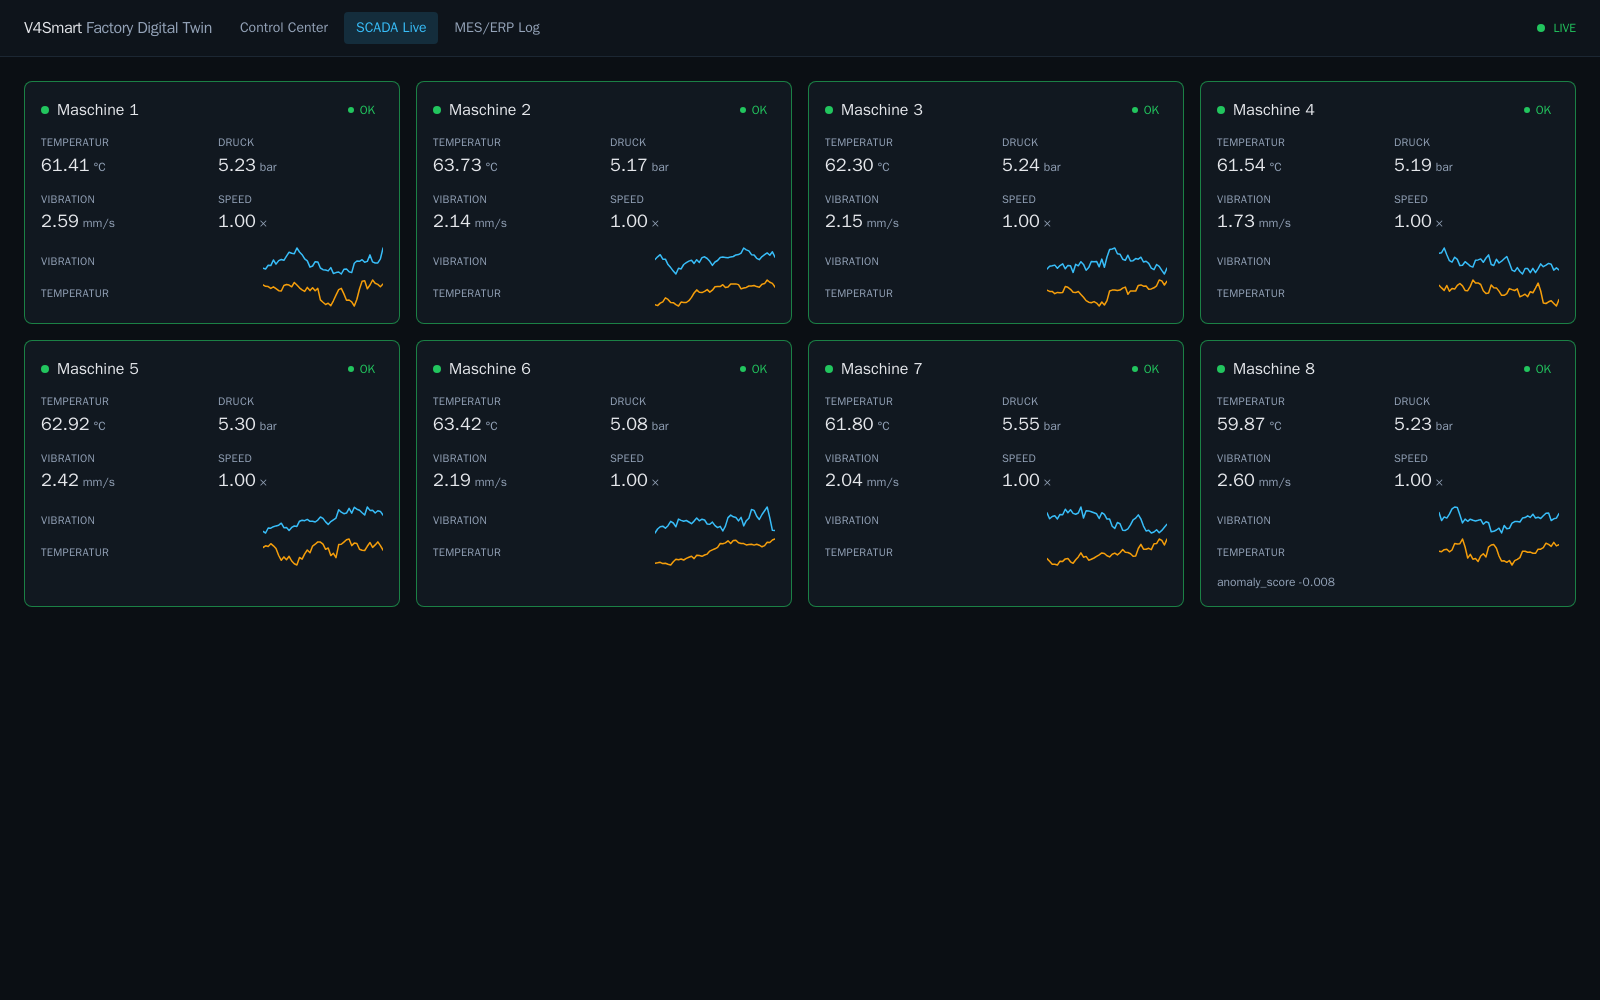
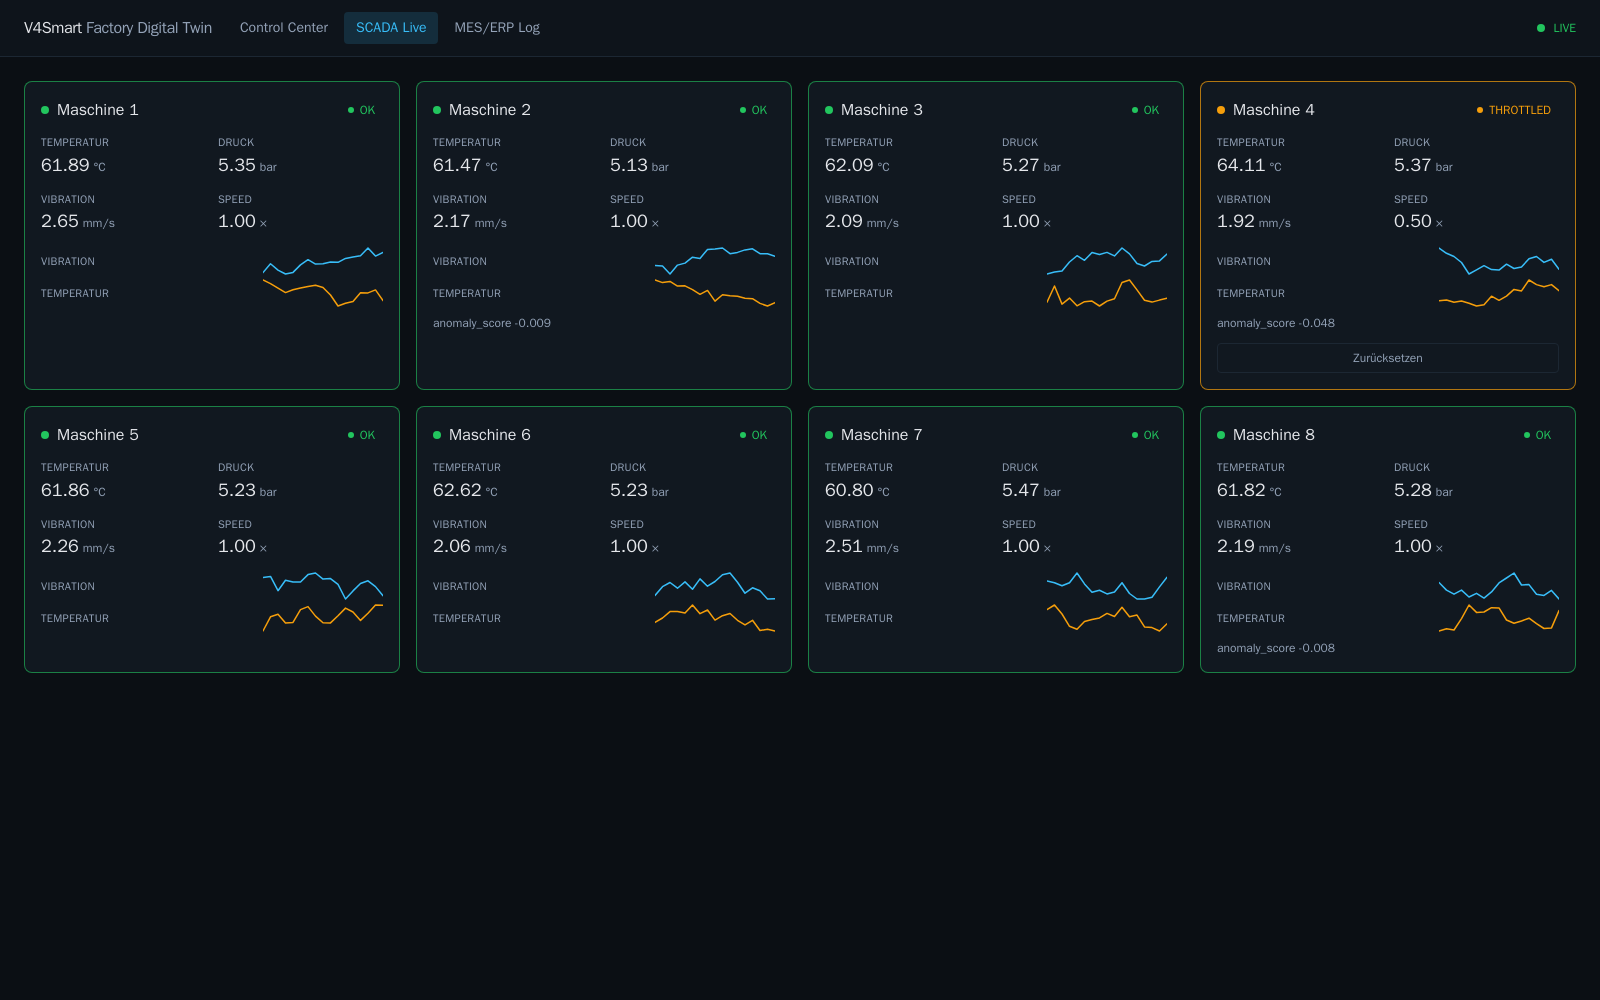
Add MIT licence and per-machine reset button
The reset button closes a usability gap: a throttled or failed machine
recovers on its own after ~120 s, but there was no way to clear it from
the dashboard — the control command existed in the backend without a
button. Verified in a real browser: click clears the state in ~1.5 s.

diff --git a/scripts/reset_button_check.js b/scripts/reset_button_check.js
@@ -1,0 +1,54 @@
+// ============================================================================
+// Bedient den "Zurücksetzen"-Knopf einer gedrosselten Maschine im echten
+// Browser und prüft, ob sie danach wirklich wieder OK ist.
+//
+// Prüft die Kette, die ein Nutzer geht: Knopf sichtbar -> Klick ->
+// POST /api/control -> Kafka -> Simulator -> Telemetrie -> Karte grün.
+// ============================================================================
+const { chromium } = require('playwright');
+
+const host = process.env.TWIN_HOST;
+const machine = Number(process.env.MACHINE);
+const outDir = process.env.OUT_DIR || '/workspace/artifacts';
+
+const cardFor = (page, id) =>
+  page.locator('div').filter({ hasText: new RegExp(`^Maschine ${id}`) }).first();
+
+(async () => {
+  const browser = await chromium.launch({ args: ['--no-sandbox'] });
+  const context = await browser.newContext({
+    ignoreHTTPSErrors: true,
+    httpCredentials: { username: process.env.BASIC_AUTH_USER, password: process.env.PW },
+    viewport: { width: 1600, height: 1000 },
+  });
+  const page = await context.newPage();
+
+  await page.goto(`https://${host}/`, { waitUntil: 'networkidle', timeout: 30000 });
+  await page.getByRole('button', { name: 'SCADA Live' }).click();
+  await page.waitForTimeout(3000);
+
+  const card = cardFor(page, machine);
+  const resetBtn = card.getByRole('button', { name: 'Zurücksetzen' });
+
+  const visibleBefore = await resetBtn.count();
+  console.log(`Knopf an Maschine ${machine} sichtbar: ${visibleBefore > 0}`);
+  await page.screenshot({ path: `${outDir}/reset-before.png` });
+  if (!visibleBefore) { await browser.close(); process.exit(1); }
+
+  await resetBtn.first().click();
+  console.log('geklickt — warte auf Statuswechsel…');
+
+  let ok = false;
+  for (let i = 0; i < 20; i++) {
+    await page.waitForTimeout(1500);
+    const text = await card.innerText();
+    if (/\bOK\b/.test(text) && !/THROTTLED|ERROR/.test(text)) { ok = true; console.log(`wieder OK nach ~${((i + 1) * 1.5).toFixed(1)}s`); break; }
+  }
+
+  await page.screenshot({ path: `${outDir}/reset-after.png` });
+  const stillThere = await card.getByRole('button', { name: 'Zurücksetzen' }).count();
+  console.log(`Knopf danach noch da: ${stillThere > 0} (erwartet: false)`);
+
+  await browser.close();
+  process.exit(ok && stillThere === 0 ? 0 : 1);
+})();

diff --git a/services/dashboard-ui/src/components/MachineCard.tsx b/services/dashboard-ui/src/components/MachineCard.tsx
@@ -1,6 +1,40 @@
-import { store, type Machine } from '../lib/store'
+import { useState } from 'react'
+
+import { sendControl, store, type Machine } from '../lib/store'
 import { Sparkline } from './Sparkline'
 import { STATUS_BG, STATUS_BORDER, StatusBadge } from './ui'
+
+/** Hebt Drosselung und Fehlerzustand einer Maschine sofort auf (§8 "reset").
+ *
+ * Ohne diesen Knopf müsste man abwarten: eine Drosselung läuft erst nach
+ * ttl_s = 120 s aus, ein ERROR nach 120 s Auto-Reset. Beides löst sich von
+ * selbst — aber wer vorführt oder testet, will nicht zwei Minuten warten. */
+function ResetButton({ machine }: { machine: Machine }) {
+  const [busy, setBusy] = useState(false)
+  const [error, setError] = useState<string | null>(null)
+
+  async function reset() {
+    setBusy(true)
+    setError(null)
+    const res = await sendControl({ type: 'reset', machine_id: machine.id })
+    if (!res.ok) setError(res.error ?? 'fehlgeschlagen')
+    setBusy(false)
+  }
+
+  return (
+    <div className="mt-3">
+      <button
+        onClick={reset}
+        disabled={busy}
+        title="Drosselung und Fehlerzustand sofort aufheben (löst sich sonst nach ~120 s von selbst)"
+        className="w-full rounded border border-edge px-3 py-1.5 text-xs font-medium text-muted transition hover:border-accent/60 hover:text-accent disabled:opacity-40"
+      >
+        {busy ? 'wird zurückgesetzt…' : 'Zurücksetzen'}
+      </button>
+      {error && <div className="mt-1 text-xs text-error">{error}</div>}
+    </div>
+  )
+}
 
 /** Puls-Dot: leuchtet kurz auf, sobald ein Telemetry-Frame eintraf (§16). */
 function BlinkDot({ id, status }: { id: number; status: Machine['status'] }) {
@@ -54,6 +88,9 @@ export function MachineCard({ machine }: { machine: Machine }) {
       {machine.anomaly_score != null && (
         <div className="num mt-2 text-xs text-muted">anomaly_score {machine.anomaly_score.toFixed(3)}</div>
       )}
+
+      {/* Nur zeigen, wenn es etwas zurückzusetzen gibt. */}
+      {(machine.status === 'THROTTLED' || machine.status === 'ERROR') && <ResetButton machine={machine} />}
     </div>
   )
 }

diff --git a/README.md b/README.md
@@ -140,7 +140,9 @@ resync. React re-renders are throttled to 4 Hz while telemetry arrives at 40
 frames per second, so the page stays smooth.
 
 **SCADA Live** — machine cards with status-coloured borders, a pulse indicator
-per received frame, and 60-point SVG sparklines (no charting library).
+per received frame, and 60-point SVG sparklines (no charting library). A
+throttled or failed machine gets a reset button: both states clear themselves
+after ~120 s, but nobody wants to wait that out during a demo.
 
 ![SCADA Live](docs/screenshots/scada-live.png)
 
@@ -265,5 +267,4 @@ they generalise:
 
 ## Licence
 
-No licence file is included yet; add one before sharing this publicly if you
-want to permit reuse.
+MIT — see [LICENSE](LICENSE).
